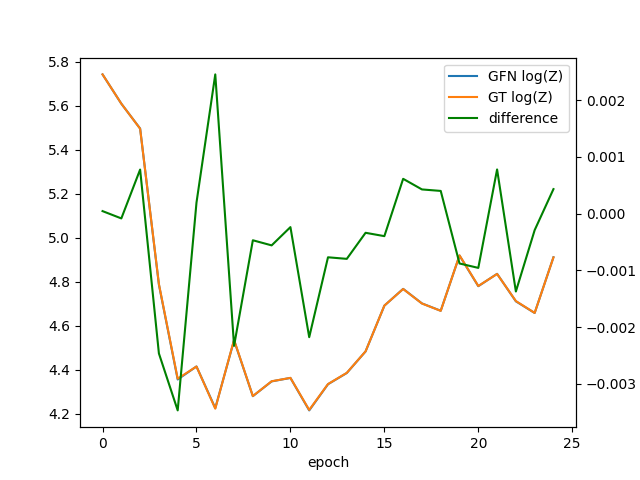
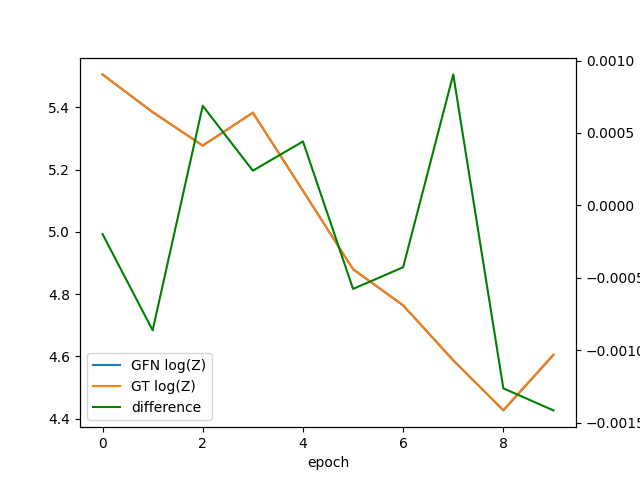
KL divergence correction

diff --git a/grid.py b/grid.py
@@ -17,10 +17,10 @@ from gfn.src.gfn.utils import trajectories_to_training_samples, validate
 def train_grid_gfn(config, gfn_parametrization=None, trajectories_sampler=None, reward_net=None, gt_trajectories=None, n_train_steps=1000, verbose=0, file_name=''):
 
     env = HyperGrid(ndim=config.env.ndim, height=config.env.height, R0=0.01, reward_net=reward_net)  # Grid of size 8x8x8x8
-    all_states = env.build_grid()
-    all_rewards = env.reward(all_states)
-    if verbose == 0:
-        render_distribution(all_rewards, config.env.height, config.env.ndim, 'true_reward_{}_{}d'.format(file_name,config.env.ndim))
+    # all_states = env.build_grid()
+    # all_rewards = env.reward(all_states)
+    # if verbose == 0:
+    #     render_distribution(all_rewards, config.env.height, config.env.ndim, 'true_reward_{}_{}d'.format(file_name,config.env.ndim))
 
     if gfn_parametrization is None:
         logit_PF = LogitPFEstimator(env=env, module_name='NeuralNet')
@@ -84,6 +84,10 @@ def train_grid_gfn(config, gfn_parametrization=None, trajectories_sampler=None, 
             render_distribution(final_states_dist_pmf.reshape([config.env.height]*config.env.ndim) * torch.exp(parametrization.logZ.tensor.detach()), config.env.height, config.env.ndim,
                                 'emp_reward_{}_{}d_{}it'.format(file_name, config.env.ndim, i+1))
 
+    if config.experiment.kl_div_measure and n_train_steps > 500:
+        validation_info, final_states_dist_pmf = validate(env, parametrization, config.experiment.n_validation_samples, visited_terminating_states, return_terminating_distribution=True)
+        gfn_reward = final_states_dist_pmf.reshape([config.env.height]*config.env.ndim) * torch.exp(parametrization.logZ.tensor.detach())
+        return parametrization, trajectories_sampler, gfn_reward.reshape(-1, 1)
     return parametrization, trajectories_sampler
 
 if __name__ == '__main__':

diff --git a/train.py b/train.py
@@ -124,16 +124,16 @@ def train(config, env):
     pbar.set_description('{}'.format(average_loss_per_epoch))
     reward_losses_per_epoch.append(average_loss_per_epoch)
 
-    if config.experiment.use_gfn_z and epoch % config.experiment.full_gfn_retrain == 0:
+    if config.experiment.use_gfn_z and (epoch+1) % config.experiment.full_gfn_retrain == 0:
       print('Fully retrain gfn...')
       reward_net_checkpoint = copy.deepcopy(reward_net)
-      gfn_parametrization, trajectories_sampler_gfn = train_grid_gfn(config, None, None, reward_net=reward_net, n_train_steps=1000,
-                                                                     file_name='epoch{}'.format(epoch))
+      gfn_parametrization, trajectories_sampler_gfn, gfn_reward = train_grid_gfn(config, None, None, reward_net=reward_net, n_train_steps=1000,
+                                                                     file_name='epoch{}'.format(epoch+1))
 
       all_rewards = reward_net(all_states.states_tensor.reshape(-1, config.env.ndim))
       Z = torch.sum(torch.exp(-all_rewards))
 
-      KL_div_per_epoch.append(KL_diversity(gt_rewards, all_rewards))
+      KL_div_per_epoch.append(KL_diversity(gt_rewards, gfn_reward))
       gfn_z_per_epoch.append(gfn_parametrization.logZ.tensor.detach().numpy().item())
       gt_z_per_epoch.append(torch.log(Z).detach().numpy().item())
       print('GT Z is {} and gfn Z is {}'.format(torch.log(Z), gfn_parametrization.logZ.tensor))
